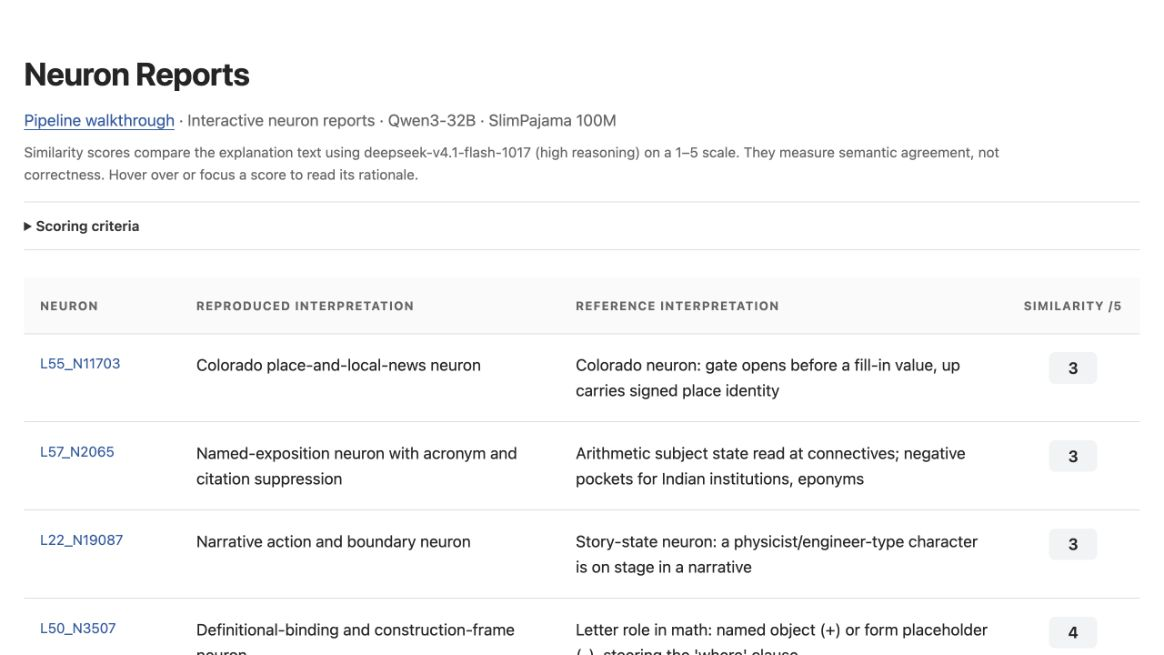
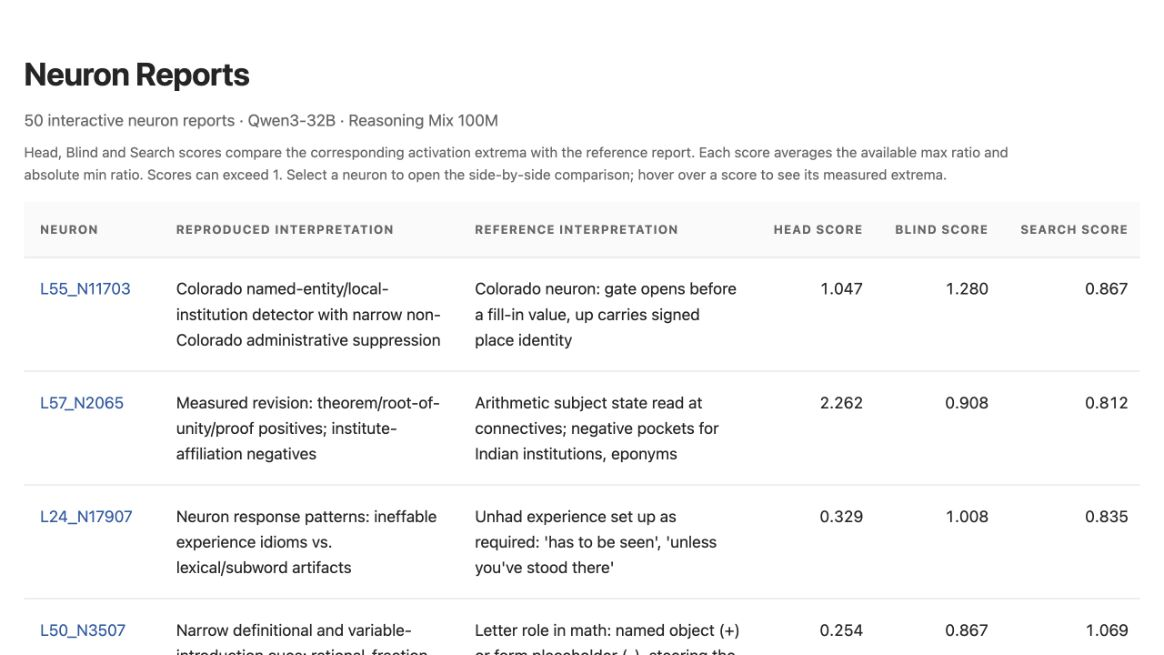
Show the 50-neuron Reasoning Mix report collection

diff --git a/README.md b/README.md
@@ -14,7 +14,7 @@
 
 <p align="center">
   <a href="README_zh.md">中文</a> ·
-  <a href="https://ruc-trustworthyai.github.io/Neuron-Microscope-Pages/">Language model reports</a> ·
+  <a href="https://ruc-trustworthyai.github.io/Neuron-Microscope-Pages/reasoning-mix-100m-50/">Language model reports</a> ·
   <a href="vision/README.md">Vision model visualizations</a> ·
   <a href="https://ruc-trustworthyai.github.io/Neuron-Microscope-Pages/L55_N11703/">Open the Colorado case</a> ·
   <a href="https://ruc-trustworthyai.github.io/Neuron-Microscope-Pages/walkthrough/?lang=en">Watch the investigation</a> ·
@@ -35,7 +35,7 @@ Neuron Microscope reproduces and tests the neuron analyses behind Nick Cammarata
 
 | Model | What you can inspect | Entry point |
 | --- | --- | --- |
-| **Qwen3-32B** | Activation evidence, explanations, controlled tests, interventions and unresolved cases. | [Interactive neuron reports](https://ruc-trustworthyai.github.io/Neuron-Microscope-Pages/) · [Investigation code](workflow/) |
+| **Qwen3-32B** | Activation evidence, explanations, controlled tests, interventions and unresolved cases. | [Interactive neuron reports](https://ruc-trustworthyai.github.io/Neuron-Microscope-Pages/reasoning-mix-100m-50/) · [Investigation code](workflow/) |
 | **InceptionV1 / Lucent Inception5h** | Five visualization objectives, natural-image examples, heatmaps and reference comparisons. | [Vision guide and examples](vision/README.md) · [Optimization code](vision/vision-repro/) |
 
 **Data:** [Sources, sampling procedures and readers for five LLM corpora](docs/data.md#corpora-used-in-the-comparisons) accompany the comparisons. LLM reports include selected contexts and measurements; full sampled texts and activation archives do not yet have a public download.
@@ -81,10 +81,12 @@ In our SlimPajama 100M run, the template `Officials in {city} approved the annua
 
 ### Browse all current reports
 
-[Open the report directory →](https://ruc-trustworthyai.github.io/Neuron-Microscope-Pages/)
+Explore **50 Qwen3-32B neurons on Reasoning Mix 100M**, with Head, Blind and Search scores alongside each report.
+
+[Open the report directory →](https://ruc-trustworthyai.github.io/Neuron-Microscope-Pages/reasoning-mix-100m-50/)
 
 <p align="center">
-  <a href="https://ruc-trustworthyai.github.io/Neuron-Microscope-Pages/">
+  <a href="https://ruc-trustworthyai.github.io/Neuron-Microscope-Pages/reasoning-mix-100m-50/">
     <img src="assets/report-directory.png" alt="Directory of Qwen3-32B neuron comparisons" width="92%">
   </a>
 </p>
@@ -138,7 +140,7 @@ The original essay contains claims at several levels. The table below tracks our
   </a>
 </p>
 
-Recorded on **29 October 2026**, the walkthrough follows a Colorado investigation using **Diverse 100M**, including revision of the interpretation after experiments. It preserves the prompts, measurements and intermediate reports from that run. The linked Qwen3 comparisons also document runs from 29 October, using SlimPajama 100M. The runnable workflow described below freezes the explanation before experiments and analyzes their results against that frozen explanation.
+Recorded on **29 October 2026**, the walkthrough follows a Colorado investigation using **Diverse 100M**, including revision of the interpretation after experiments. It preserves the prompts, measurements and intermediate reports from that run. The earlier SlimPajama 100M comparisons linked from the case studies document runs from 29 October. The runnable workflow described below freezes the explanation before experiments and analyzes their results against that frozen explanation.
 
 ### Current runnable workflow
 

diff --git a/README_zh.md b/README_zh.md
@@ -14,7 +14,7 @@
 
 <p align="center">
   <a href="README.md">English</a> ·
-  <a href="https://ruc-trustworthyai.github.io/Neuron-Microscope-Pages/">语言模型报告</a> ·
+  <a href="https://ruc-trustworthyai.github.io/Neuron-Microscope-Pages/reasoning-mix-100m-50/">语言模型报告</a> ·
   <a href="vision/README_zh.md">视觉模型可视化</a> ·
   <a href="https://ruc-trustworthyai.github.io/Neuron-Microscope-Pages/L55_N11703/">查看 Colorado 案例</a> ·
   <a href="https://ruc-trustworthyai.github.io/Neuron-Microscope-Pages/walkthrough/?lang=zh">跟随一次研究</a> ·
@@ -35,7 +35,7 @@ Neuron Microscope 独立复现并研究 Nick Cammarata 的 [*Neural Networks Are
 
 | 模型 | 可以查看的内容 | 入口 |
 | --- | --- | --- |
-| **Qwen3-32B** | 激活证据、解释、受控测试、干预和尚未解决的案例。 | [交互式神经元报告](https://ruc-trustworthyai.github.io/Neuron-Microscope-Pages/) · [研究代码](workflow/) |
+| **Qwen3-32B** | 激活证据、解释、受控测试、干预和尚未解决的案例。 | [交互式神经元报告](https://ruc-trustworthyai.github.io/Neuron-Microscope-Pages/reasoning-mix-100m-50/) · [研究代码](workflow/) |
 | **InceptionV1／Lucent Inception5h** | 五种可视化目标、自然图像样例、热图和参考对比。 | [视觉模块指南与样例](vision/README_zh.md) · [优化代码](vision/vision-repro/) |
 
 **数据：** 对比案例附有[五套 LLM 语料的来源、采样流程和读取工具](docs/data.md#corpora-used-in-the-comparisons)。LLM 报告包含选定的上下文和测量结果；完整采样文本与激活归档尚无公开下载入口。
@@ -81,10 +81,12 @@ Neuron Microscope 独立复现并研究 Nick Cammarata 的 [*Neural Networks Are
 
 ### 浏览当前全部报告
 
-[打开报告目录 →](https://ruc-trustworthyai.github.io/Neuron-Microscope-Pages/)
+查看 **Reasoning Mix 100M 上的 50 个 Qwen3-32B 神经元报告**，导航页同时列出各报告的 Head、Blind 和 Search 分数。
+
+[打开报告目录 →](https://ruc-trustworthyai.github.io/Neuron-Microscope-Pages/reasoning-mix-100m-50/)
 
 <p align="center">
-  <a href="https://ruc-trustworthyai.github.io/Neuron-Microscope-Pages/">
+  <a href="https://ruc-trustworthyai.github.io/Neuron-Microscope-Pages/reasoning-mix-100m-50/">
     <img src="assets/report-directory.png" alt="Qwen3-32B 神经元对比目录" width="92%">
   </a>
 </p>
@@ -138,7 +140,7 @@ Neuron Microscope 独立复现并研究 Nick Cammarata 的 [*Neural Networks Are
   </a>
 </p>
 
-这份记录来自 **2026 年 10 月 29 日**的 Colorado 研究，使用 **Diverse 100M**，包含实验后的解释修订。提示词、测量和中间报告保留了该次运行的内容。链接中的 Qwen3 对比报告同样记录了 10 月 29 日的运行，使用 SlimPajama 100M。下文介绍的可运行流程会在实验前冻结解释，再根据实验结果分析这份冻结解释。
+这份记录来自 **2026 年 10 月 29 日**的 Colorado 研究，使用 **Diverse 100M**，包含实验后的解释修订。提示词、测量和中间报告保留了该次运行的内容。案例链接中的早期 SlimPajama 100M 对比报告记录了 10 月 29 日的运行。下文介绍的可运行流程会在实验前冻结解释，再根据实验结果分析这份冻结解释。
 
 ### 当前可运行流程
 
